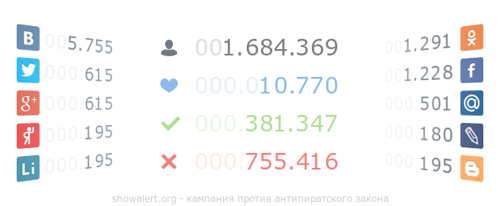
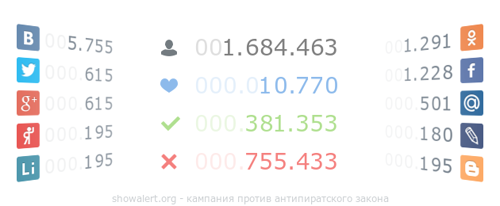
update statistics files for plugins

Changed region(s): [[0.6, 0.5534, 0.69, 0.6408], [0.57, 0.1748, 0.69, 0.2913], [0.63, 0.7282, 0.69, 0.8447]]

diff --git a/votes.js b/votes.js
@@ -1,1 +1,1 @@
-window.lk.votes(33043)
+window.lk.votes(33047)
